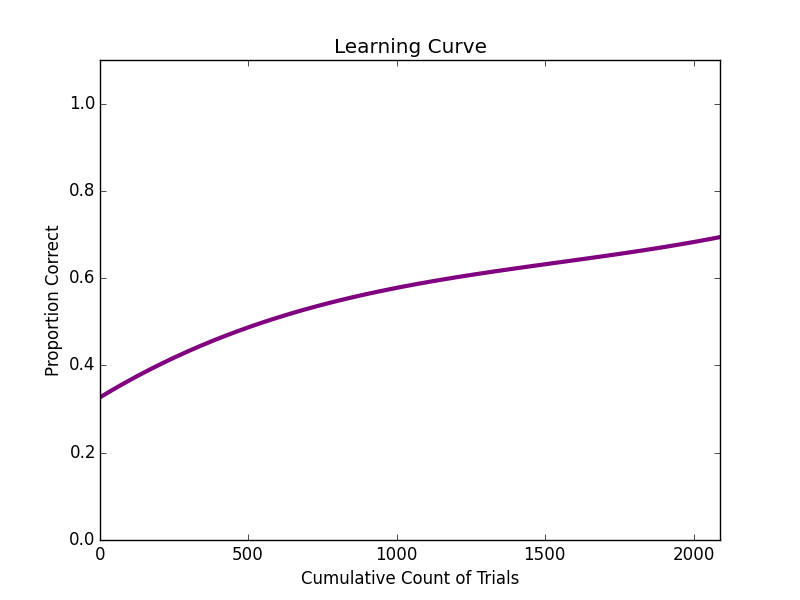
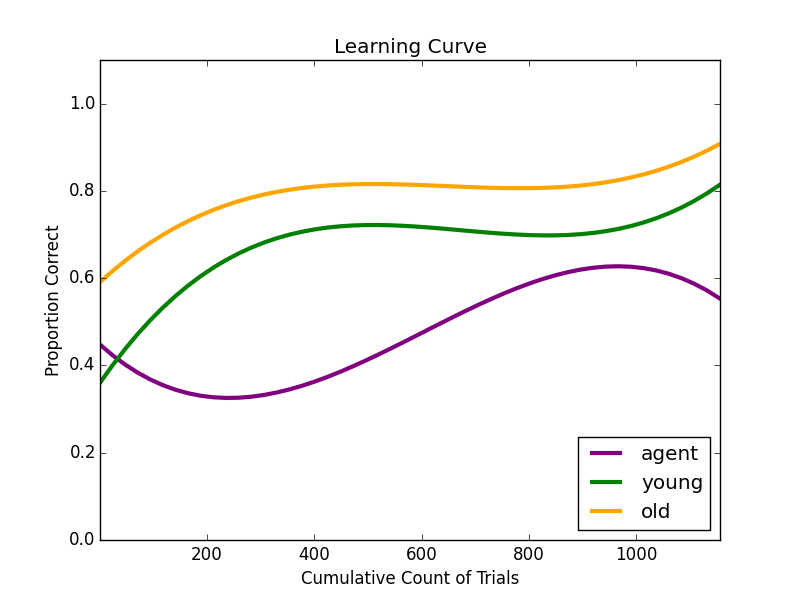
Updated plotting to include real data

diff --git a/plotLearning.py b/plotLearning.py
@@ -5,7 +5,7 @@ import numpy as np
 from scipy.optimize import curve_fit
 
 
-def prep_data(movAvg):
+def prep_data(movAvg,ratdata=None):
     """
     Calculates proportions for the trace.
     """
@@ -41,16 +41,19 @@ def func(x, a, b, c):
     return a * np.exp(-b * x) + c
 
 def rat_data():
-    with open('rat1027.txt', 'r') as old:
+    with open('rat10279.txt', 'r') as old:
         lines = old.readlines()
-        oldDecisions = lines.split(',')
+        oldDecisions = [line.split(',') for line in lines][0]
+        old = [float(o) for o in oldDecisions]
     with open('rat10282.txt', 'r') as young:
         lines = young.readlines()
-        youngDecisions = lines.split(',')
-    return (youngDecisions,oldDecisions)
+        youngDecisions = [line.split(',') for line in lines][0]
+        young = [float(y) for y in youngDecisions]
+    trials = min([len(oldDecisions),len(youngDecisions)])
+    return (young[0:trials],old[0:trials])
 
 
-def plot_results(proportions,trialNum,movAvg):
+def plot_results(proportions,trialNum,movAvg,young=None,old=None):
     """
     Plots the performance of the agent to learn the W-track spatial alternation task.
     This is a simple 3 degree polynomial fit by first performing a least squares
@@ -60,19 +63,41 @@ def plot_results(proportions,trialNum,movAvg):
     figureName = 'LearningCurve.png'
     plt.figure('Learning Curve')
 
-    x = trials
-    y = proportions
+    #young rat
+    youngY = rat_data()[0]
+    youngX = trials[0:len(youngY)]
+    youngZ = np.polyfit(youngX,youngY,3)
+    youngf= np.poly1d(youngZ)
+    newYoungX = np.linspace(youngX[0],youngX[-1],50)
+    newYoungY = youngf(newYoungX)
 
+    #old rat
+    oldY = rat_data()[1]
+    oldX = trials[0:len(oldY)]
+    oldZ = np.polyfit(oldX,oldY,3)
+    oldf = np.poly1d(oldZ)
+    newOldX = np.linspace(oldX[0],oldX[-1],50)
+    newOldY = oldf(newOldX)
+
+    # agent
+    x = trials[0:len(oldY)]
+    y = proportions[0:len(oldY)]
     z = np.polyfit(x, y, 3)
     f = np.poly1d(z)
-
     new_x = np.linspace(x[0], x[-1], 50)
     new_y = f(new_x)
 
-    line = plt.plot(new_x,new_y,'-')
-    plt.setp(line, linewidth=3, color='purple')
-    plt.axis([1,trialNum,0,1.1])
+    agent = plt.plot(new_x,new_y,'-')
+    young = plt.plot(newYoungX,newYoungY,'-')
+    old = plt.plot(newOldX,newOldY,'-')
+    plt.setp(agent, linewidth=3, color='purple',label='agent')
+    plt.setp(young, linewidth=3, color='green',label='young')
+    plt.setp(old, linewidth=3, color='orange',label='old')
+    plt.axis([1,len(oldX),0,1.1])
+
+
     plt.title('Learning Curve')
+    plt.legend(loc=4)
     plt.xlabel("Cumulative Count of Trials")
     plt.ylabel("Proportion Correct")
     plt.savefig(figureName)
